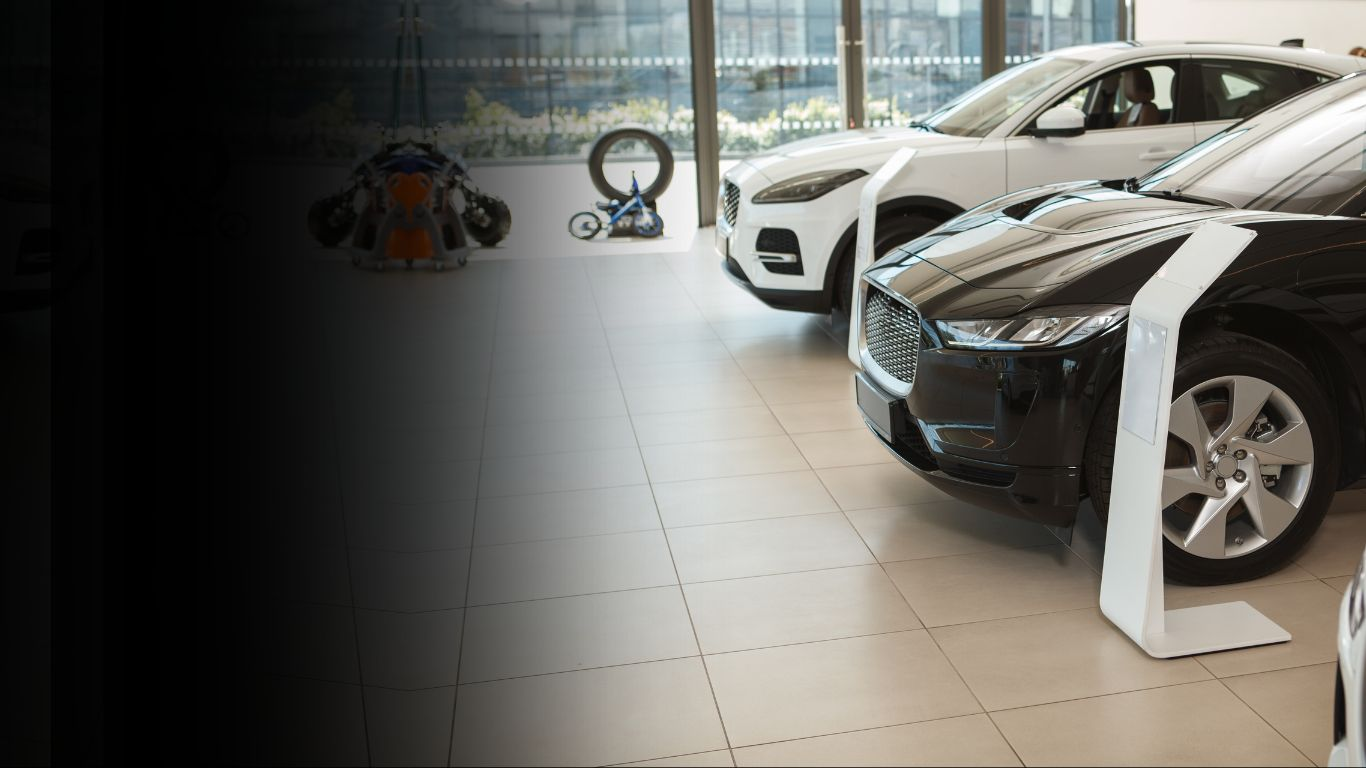
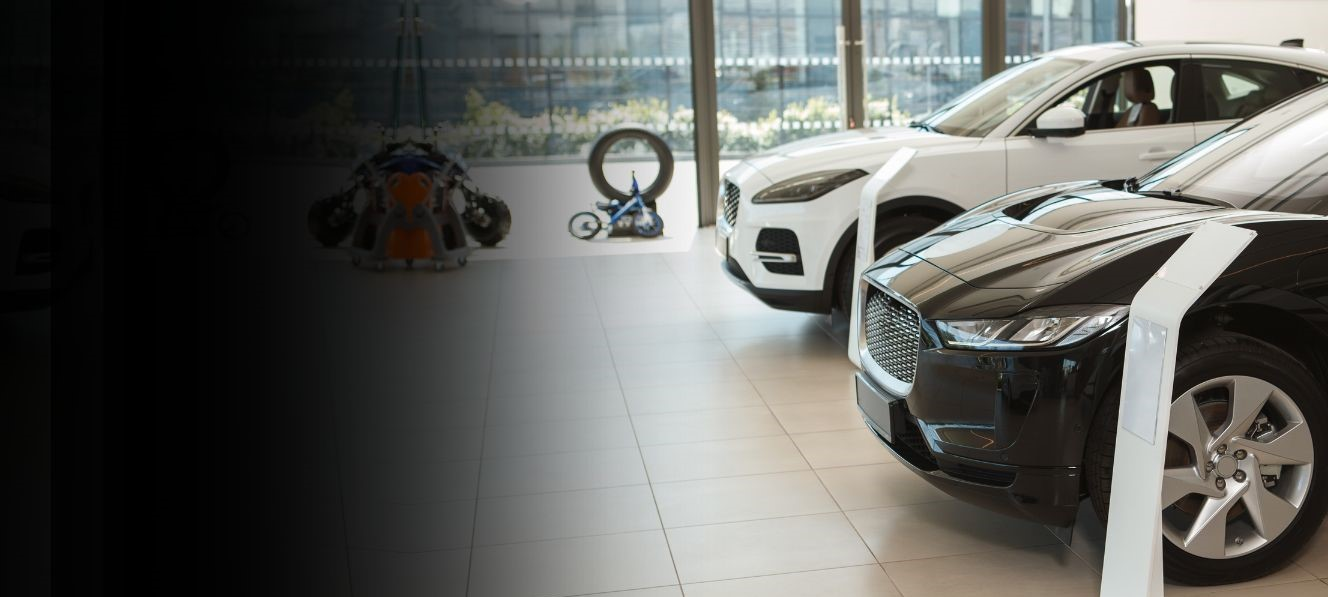
FIX - Responsividad de imagenes

diff --git a/src/app/main-content/main-content.component.css b/src/app/main-content/main-content.component.css
@@ -1,7 +1,7 @@
 
 .main-image {
     width: 100%;
-    height: 700px;
+    height: auto;
   }
 
 
@@ -39,7 +39,7 @@
   
   .image {
     width: 100%; /* Asegúrate de que la imagen ocupe todo el contenedor */
-    height: 500px; /* Mantiene la proporción de la imagen */
+    height: auto; /* Mantiene la proporción de la imagen */
     object-fit: cover; /* Asegura que la imagen cubra el área sin distorsionarse */
   }
   
@@ -73,59 +73,50 @@
 /****************************************************/
   .we-are{
     width: 100%;
-    height: 300px;
+    height: auto;
     background-color: rgb(37, 37, 37);
-    padding-bottom: 30px;
+    padding-bottom: 50px;
+    text-align: center;
+    color: white;
+    box-sizing: border-box;
   }
   
   .we-are h1{
-    padding-left: 70px;
     padding-top: 50px;
-    color: white;
     font-size: 40px;
-    margin-bottom: 0px;
-  }
-  
-  .we-are h2{
-    padding-left: 70px;
-    padding-right: 100px;
-    color: white;
   }
   
   .we-are p{
-    padding-left: 70px;
-    padding-right: 40px;
     font-size: 20px;
-    color: white;
+    margin: auto;
+  }
+
+  .container-medio {
+    display: flex;               
+    justify-content: center;     
+    align-items: center;         
+    height: auto;       
   }
   
-  .img-index-midle{
-    width: 100%;
-    height: 700px;
+  .img-index-midle {
+    width: 100%;                 
+    height: auto;                
     margin-top: 30px;
   }
+  
+
   /*****************************************************************************/
 
   .container-schedule {
-    display: flex;
+    background-image: url("/assets/images/img-horario.jpg"); 
     width: 100%;
-    height: auto;
-    background-image: url("/assets/images/img-horario.jpg");
-  }
-  .img-sh{
-    position: relative;
-  }
-  
-  .schedule{
-    width: 100%;
-    height: 500px;
-    margin-top: 40px;
   }
   
   .schedule h2{
     padding-left: 100px;
     color: white;
     padding-bottom: 30px;
+    padding-top: 40px;
   }
   
   table {
@@ -150,6 +141,9 @@
       flex-direction: column;
     }
   
+    .container-schedule{
+      width: 100%;
+    }
     .image-wrapper {
       width: 100%;
       margin-right: 0;
@@ -167,11 +161,6 @@
   
     .we-are h1 {
       font-size: 30px;
-    }
-  
-    .img-index-midle {
-    
-      height: 400px;
     }
   
     .container-schedule {
@@ -203,5 +192,23 @@
     .we-are h1 {
       font-size: 25px;
     }
+
+
+  .we-are p {
+    font-size: 4vw;
+    max-width: 90%; /* Más ancho en pantallas más pequeñas */
   }
+}
+
+@media screen and (max-width: 480px) {
+  .we-are h1 {
+    font-size: 8vw; /* Ajusta aún más el tamaño del texto en dispositivos muy pequeños */
+    padding-top: 20px;
+  }
+
+  .we-are p {
+    font-size: 5vw;
+  }
+}
+  
   

diff --git a/src/app/login/login.component.html b/src/app/login/login.component.html
@@ -10,21 +10,21 @@
         </div>
 
         <div>
-            <label for="email1" class="block text-900 font-medium mb-2">Email</label>
-            <input id="email1" type="text" placeholder="Dirección de email" pInputText class="w-full mb-3">
+            <label for="user" class="block text-900 font-medium mb-2">Usuario</label>
+            <input id="user" type="text" placeholder="Ingresa tu usuario " pInputText class="w-full mb-3">
 
-            <label for="password1" class="block text-900 font-medium mb-2">Contraseña</label>
-            <input id="password1" type="password" placeholder="Contraseña" pInputText class="w-full mb-3">
+            <label for="password" class="block text-900 font-medium mb-2">Contraseña</label>
+            <input id="password" type="password" placeholder="Ingresa tu contraseña" pInputText class="w-full mb-3">
 
             <div class="flex align-items-center justify-content-between mb-6">
                 <div class="flex align-items-center">
-                    <p-checkbox id="rememberme1" [binary]="true" styleClass="mr-2"></p-checkbox>
-                    <label for="rememberme1" class="text-900">Recordarme</label>
+                    <p-checkbox id="rememberme" [binary]="true" styleClass="mr-2"></p-checkbox>
+                    <label for="rememberme" class="text-900">Recordarme</label>
                 </div>
                 <a class="font-medium no-underline ml-2 text-blue-500 text-right cursor-pointer">¿Olvidaste tu contraseña?</a>
             </div>
 
-            <button pButton pRipple label="Sign In" icon="pi pi-user" class="w-full"></button>
+            <button pButton pRipple label="Iniciar Sesión" icon="pi pi-user" class="w-full"></button>
         </div>
     </div>
 </div>

diff --git a/src/app/main-content/main-content.component.html b/src/app/main-content/main-content.component.html
@@ -1,7 +1,7 @@
 <img
   class="main-image"
   src="../../../../assets/images/img-principal.jpg"
-  alt=""
+  alt="imagen-principal"
 />
 <section>
   <div class="row">
@@ -57,10 +57,10 @@
       atención, métodos de contacto y promociones vigentes.
     </p>
   </div>
-  <div class="img-index-midle">
-    <img src="../../../../assets/images/img-index-medio.jpg" alt="" />
+  <div class="container-medio">
+      <img class="img-index-midle" src="../../../../assets/images/img-index-medio.jpg" alt="imagen-medio" />
   </div>
-  <br /><br />
+
   <!-- Componente de la tabla de horarios -->
   <div class="container-schedule">
     <div class="schedule">

diff --git a/src/app/footer/footer.component.html b/src/app/footer/footer.component.html
@@ -8,8 +8,11 @@
           <a style="color: white" href="mailto:driverXperence@gmail.com">driverXperencegmail.com</a>
         </p>
       </div>
-      <div class="container-contactanos-midle">
+      <div class="container-contactanos-midle ">
         <h2>Nuestras Redes Sociales:</h2>
+        <i class="pi-facebook"style="font-size: 1rem"></i>
+        <i class="pi-tiktok"style="font-size: 1rem"></i>
+        <i class="pi-whatsapp"style="font-size: 1rem"></i>
       </div>
       <div class="container-contactanos-right">
         <h2>Teléfonos:</h2>

diff --git a/src/app/catalogo/catalogo.component.html b/src/app/catalogo/catalogo.component.html
@@ -1,4 +1,5 @@
 <app-nvbar></app-nvbar>
+<img class="w-full" src="../../../../assets/images/img-cotizador-principal.jpg" alt="">
 <h2 style="text-align: center">NUESTRO CATÁLOGO</h2>
 <section>
     <div class="row">
@@ -42,4 +43,5 @@
         <!-- Puedes seguir con los otros autos de la misma forma -->
     </div>
 </section>
+<br>
 <app-footer></app-footer>

diff --git a/src/app/footer/footer.component.css b/src/app/footer/footer.component.css
@@ -1,3 +1,5 @@
+@import "primeicons/primeicons.css";
+
 footer {
     width: 100%;
     height: auto;
